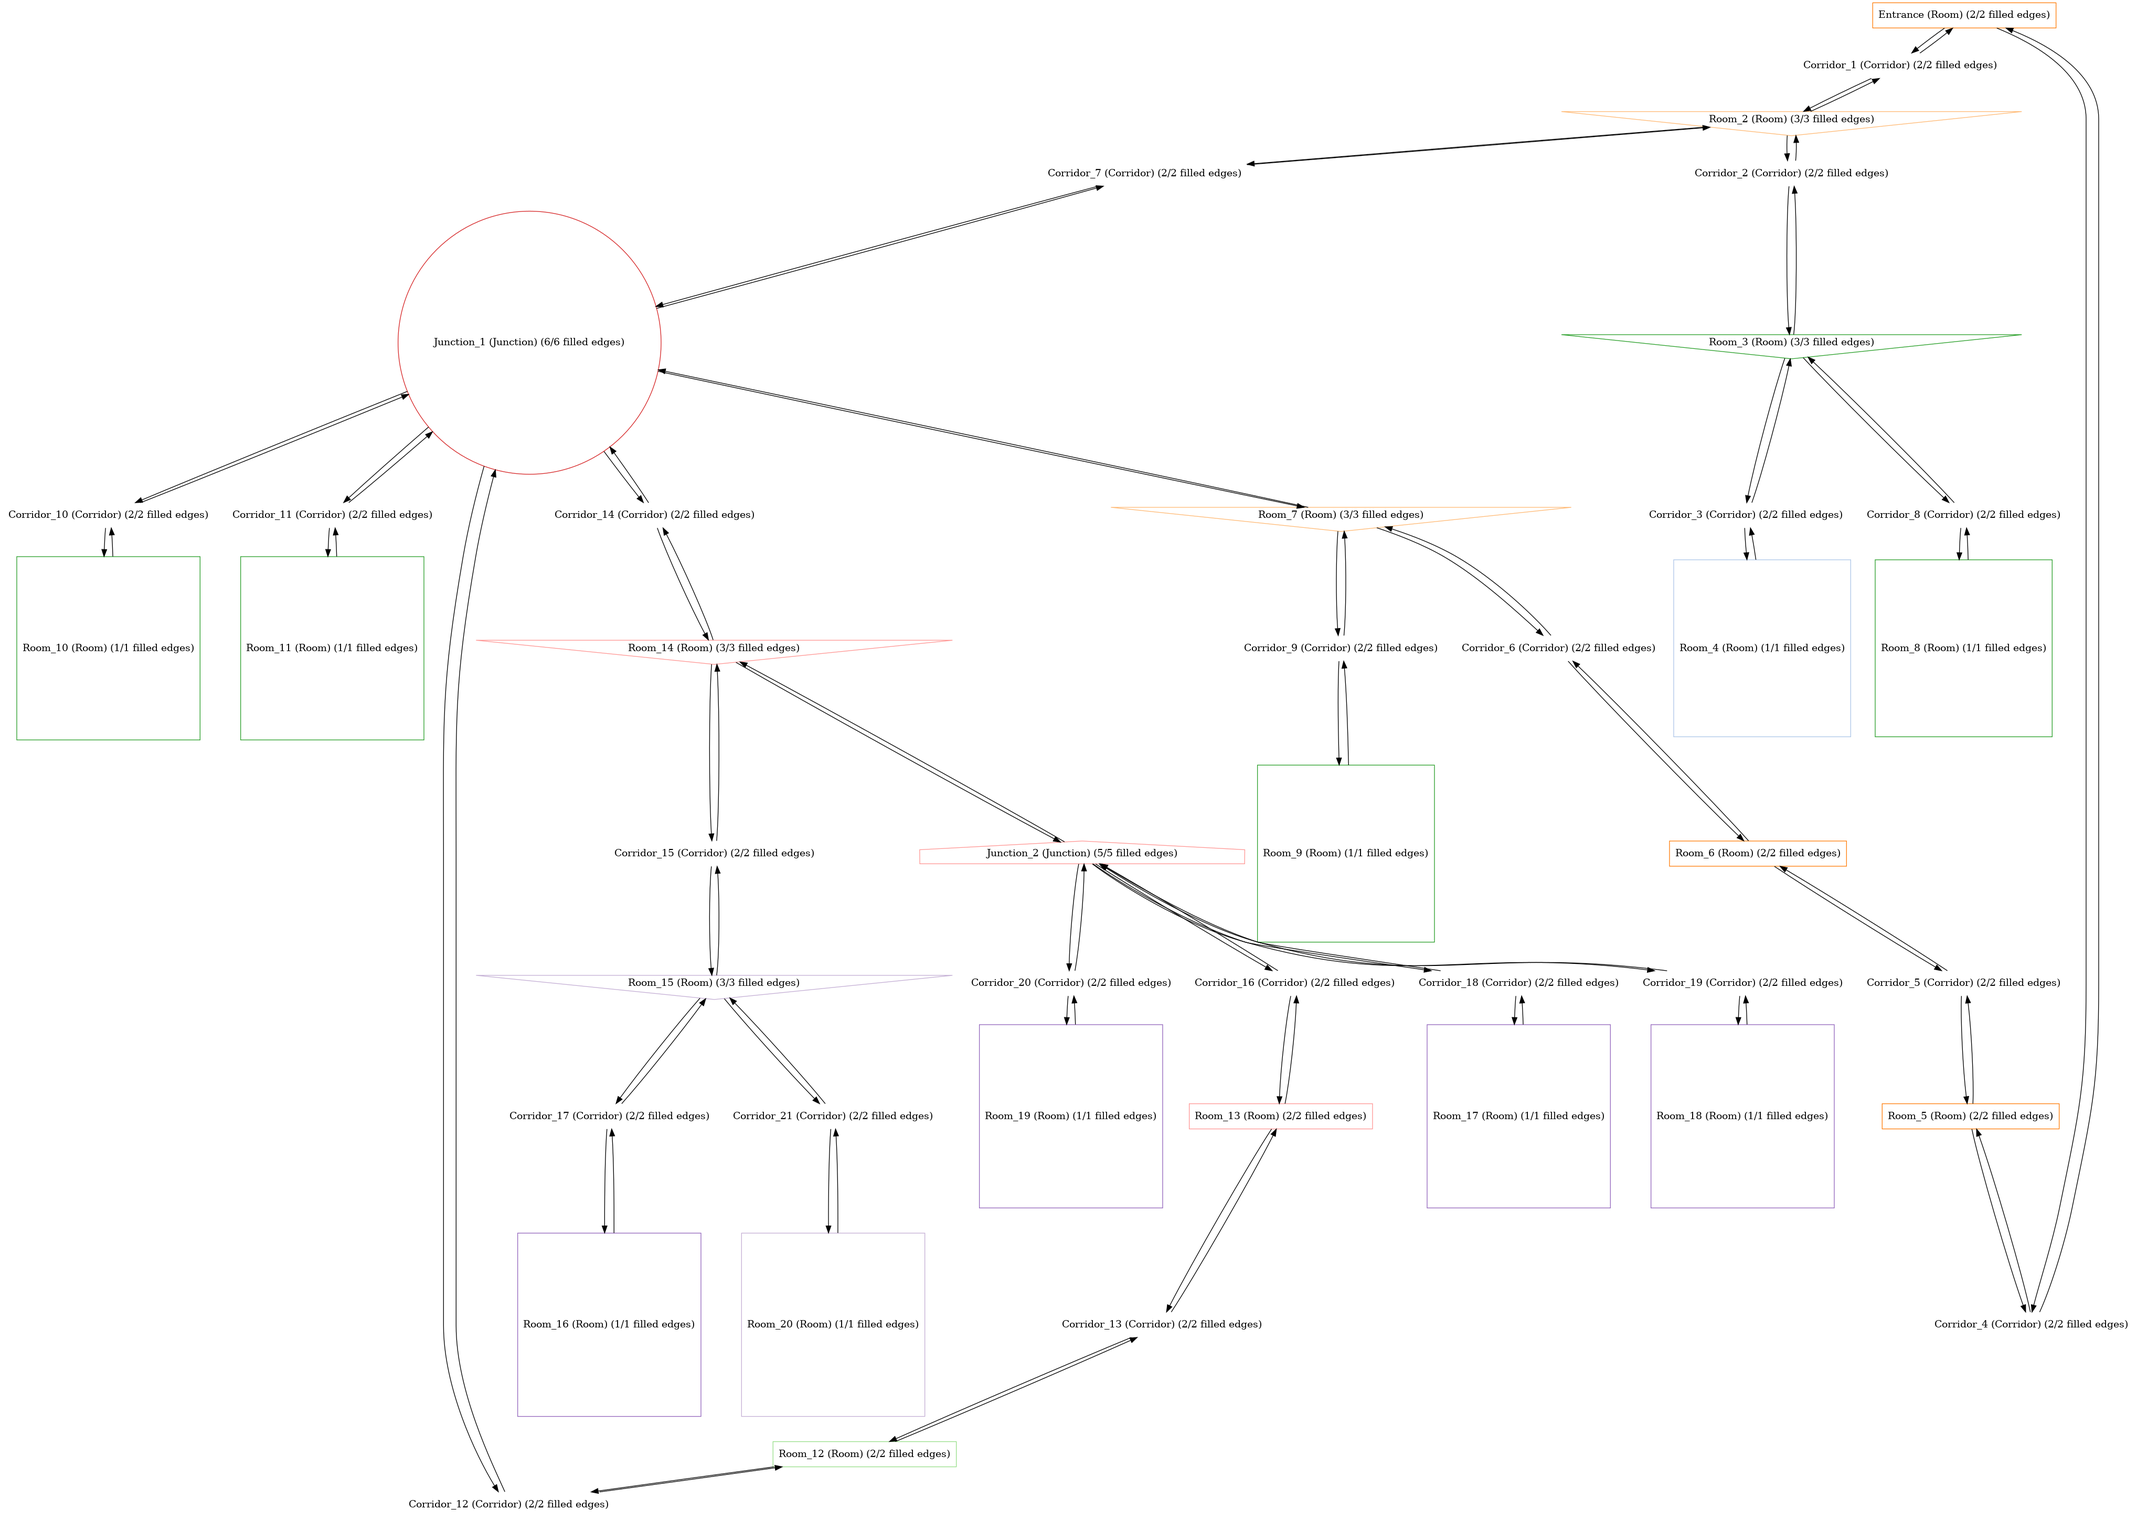
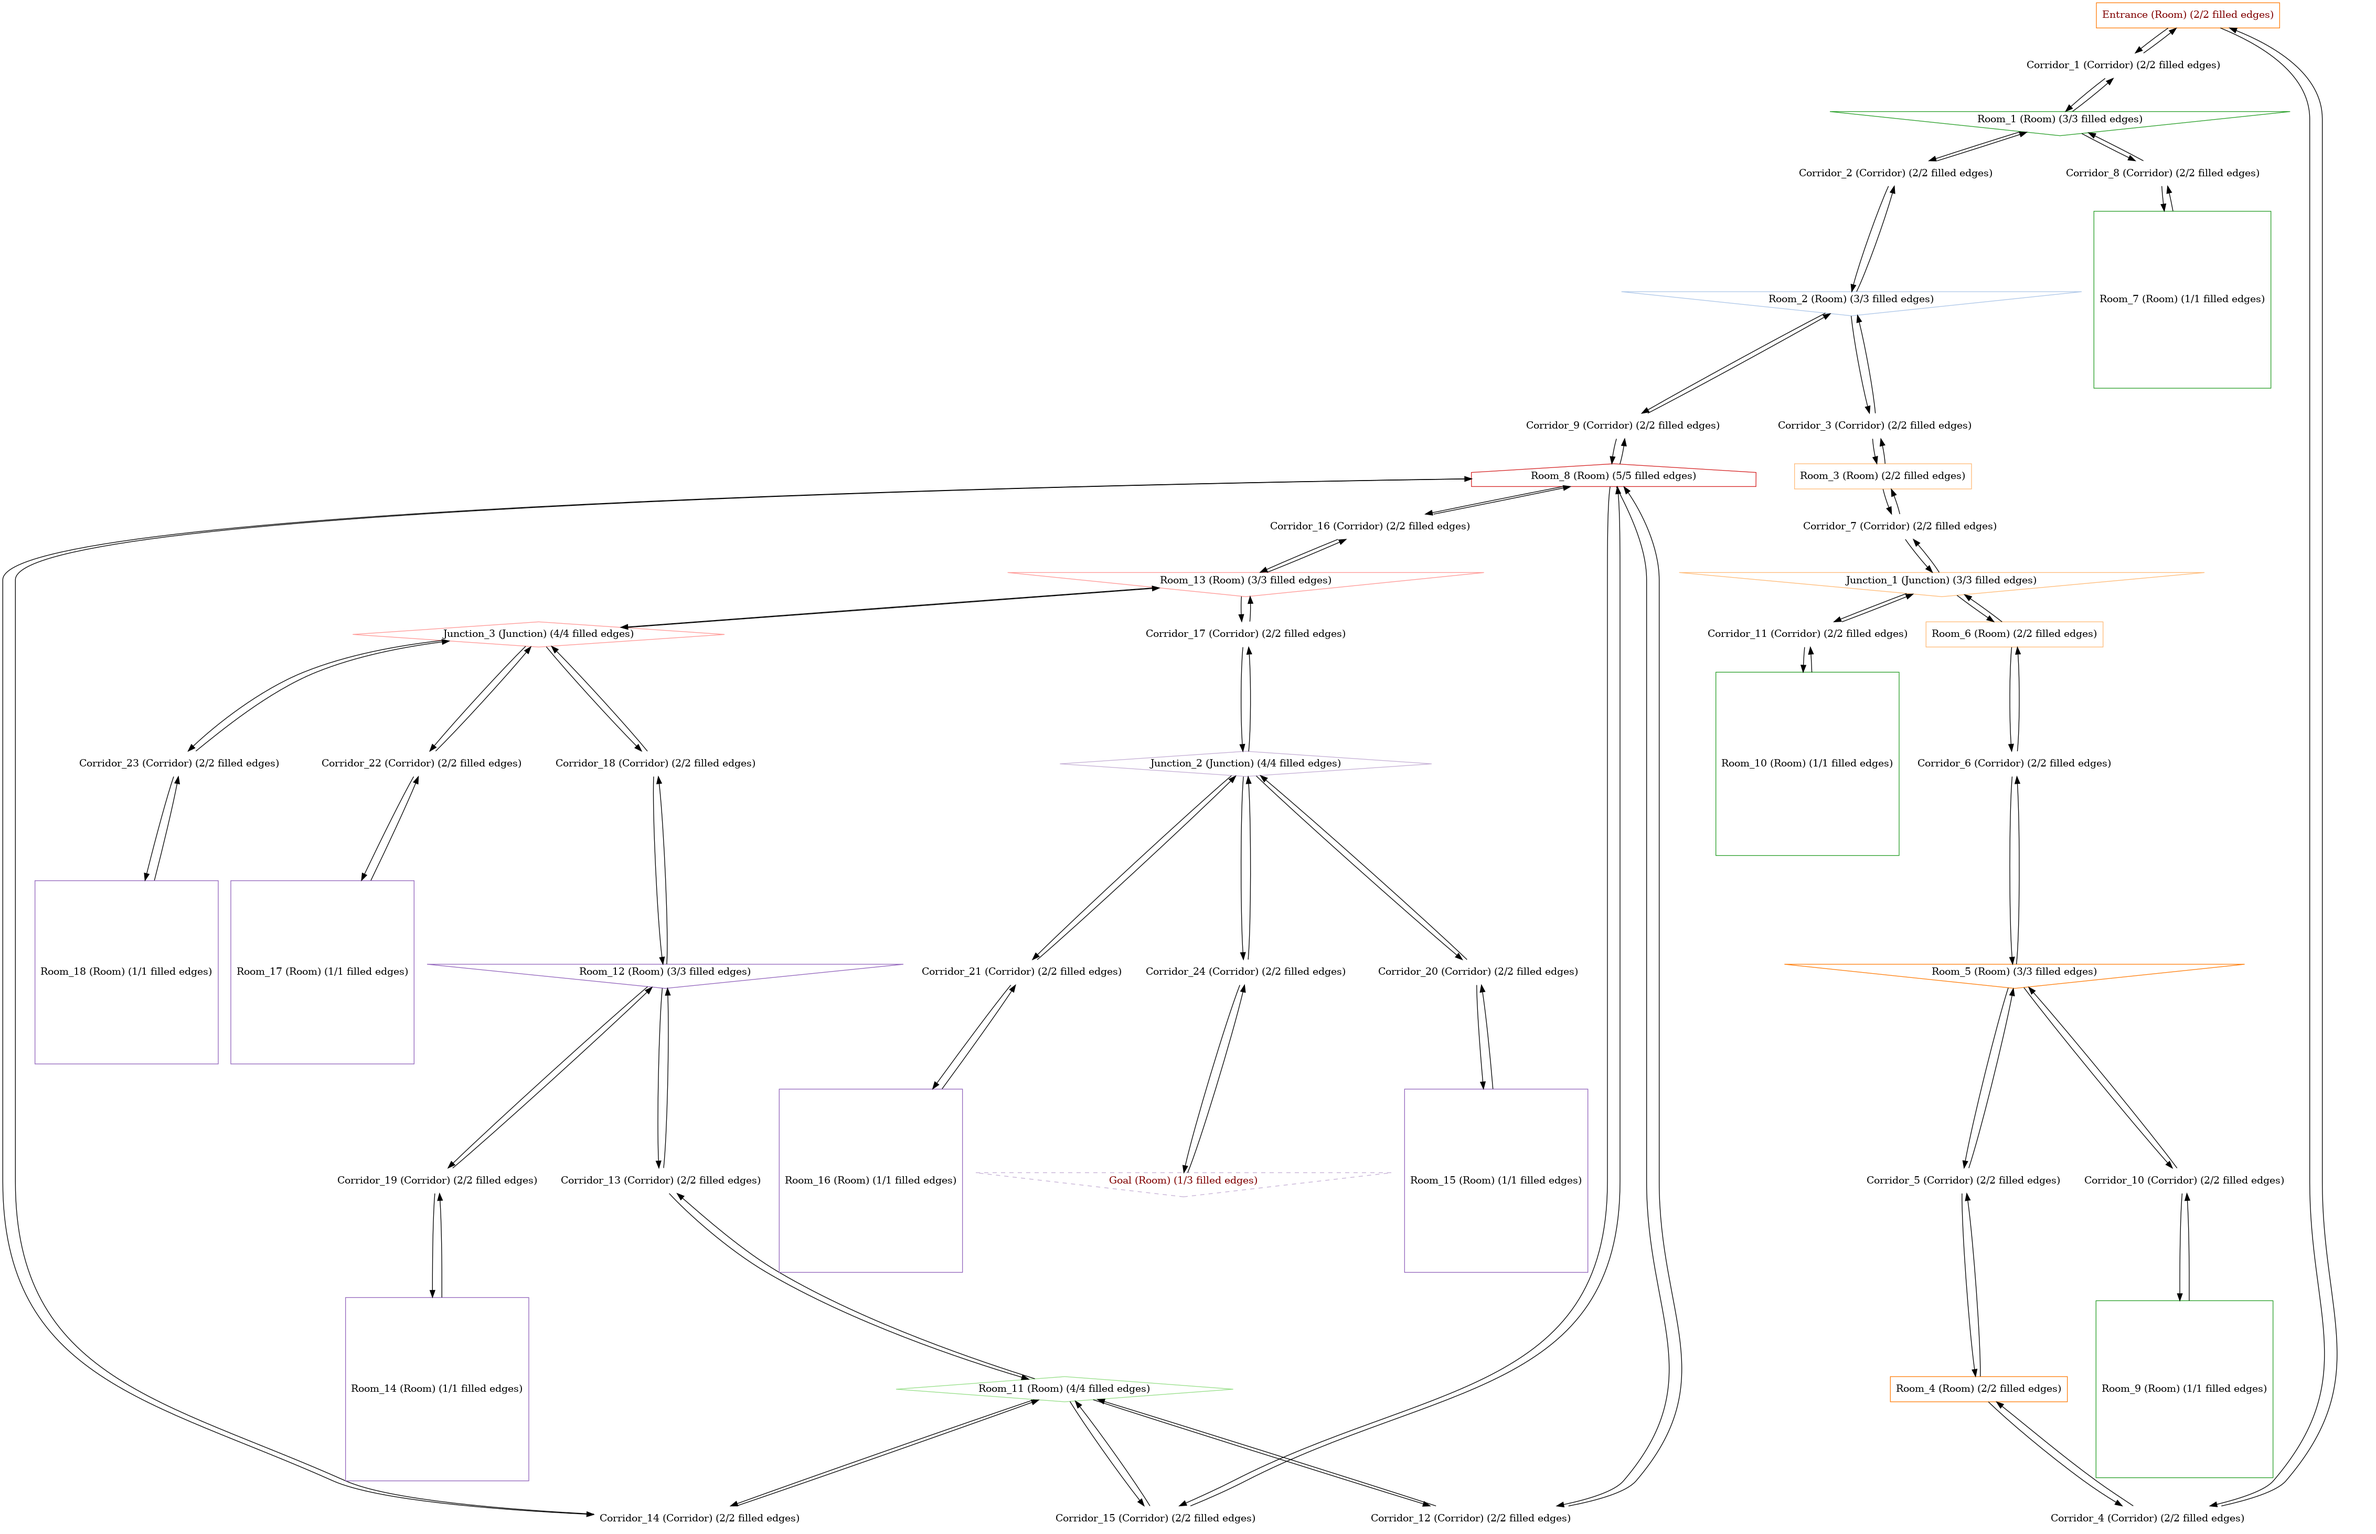
added self-loops

diff --git a/src/dungeon_net/generation/chain.py b/src/dungeon_net/generation/chain.py
@@ -41,10 +41,37 @@ def generate_node(node_types: List[Node], prev_node: Node,
     return node
 
 
+def link_rooms(chain: nx.MultiDiGraph, room1: Room, room2: Room,
+               previous_nodes: List[Node], chain_num: int) -> Tuple[nx.MultiDiGraph, List[Node]]:
+    # Link two rooms with a new corridor; generally used after generation
+    # for creating loops or reaching out to inaccessible Rooms
+    corridor = Corridor()
+    corridor.name = new_node_name(corridor, previous_nodes)
+    chain.add_node(corridor, chain_num=chain_num)
+    # Room1 <-> Corridor
+    chain.add_edge(room1, corridor)
+    chain.add_edge(corridor, room1)
+    # Corridor <-> Room2
+    chain.add_edge(corridor, room2)
+    chain.add_edge(room2, corridor)
+
+    previous_nodes.append(corridor)
+
+    corridor.filled_edges += 2
+
+    room1.num_edges += 1
+    room1.filled_edges += 1
+
+    room2.num_edges += 1
+    room2.filled_edges += 1
+
+    return chain, previous_nodes
+
+
 def generate_node_chain(chain_length: int, node_types: List[Node],
                         prob_matrix: np.ndarray, start_node: Node,
                         previous_nodes: List[Node], chain_num: int,
-                        debug=False) -> Tuple[nx.MultiDiGraph, List]:
+                        debug=False, loop_probs=np.array([0.75, 0.15, 0.1])) -> Tuple[nx.MultiDiGraph, List]:
     # "chain_length" is how many nodes _not_ including Corridor nodes
     # "node_types" is a list of node types to consider and is the ordering
     # of the "prob_matrix"
@@ -82,6 +109,24 @@ def generate_node_chain(chain_length: int, node_types: List[Node],
 
         prev_node = node
         previous_nodes.append(prev_node)
+
+    # Add interesting self-loops (RoomX -> RoomY * N)
+    # Because this is a linear chain, we can just grab all the "Rooms"
+    rooms = [n for n in G.nodes if isinstance(n, Room)]
+    if debug:
+        print([r.name for r in rooms])
+    for i, room in enumerate(rooms):
+        if i == len(rooms) - 1:
+            break
+        next_room = rooms[i+1]
+        # Randomly generate how many extra paths there should be
+        num_extra_paths = np.random.choice([0, 1, 2], p=loop_probs)
+        for i in range(num_extra_paths):
+            if debug:
+                print(
+                    f"Adding extra path {i+1}/{num_extra_paths} between {room.name} and {next_room}")
+            G, previous_nodes = link_rooms(G, room, next_room, previous_nodes,
+                                           chain_num)
 
     return G, previous_nodes
 
@@ -121,8 +166,6 @@ def generate_chain_join(chain_1: nx.MultiDiGraph,
     if not end_node.has_free_edges():
         end_node.num_edges += 1
 
-    if debug:
-        print(f"\nJoining Chain ({chain_length} nodes)")
     # Generate a chain with the desired probability matrix starting on
     # start_node
     G, previous_nodes = generate_node_chain(chain_length, node_types,

diff --git a/src/dungeon_net/generation/dungeon.py b/src/dungeon_net/generation/dungeon.py
@@ -57,7 +57,11 @@ def generate_chain_dungeon(num_iter: int, chain_lengths: Union[Tuple, Dict],
             start_node = np.random.choice(potential_start_nodes)
             if start_node.num_edges - start_node.filled_edges < 2:
                 start_node.num_edges += 2
+        if debug:
+            print(f"\nIter {i+1}/{num_iter}: Starting from {start_node}")
         # 1.: Chain 1 from start_node
+        if debug:
+            print(f"\nIter {i+1}/{num_iter}: Chain 1")
         chain_1, previous_nodes = generate_node_chain(chain_length,
                                                       chain_node_types,
                                                       chain_prob_matrix,
@@ -65,10 +69,11 @@ def generate_chain_dungeon(num_iter: int, chain_lengths: Union[Tuple, Dict],
                                                       previous_nodes,
                                                       chain_num,
                                                       debug=debug)
-        # dungeon = chain_1
         chain_num += 1
         chain_dict[f"{i}_C"] = chain_1
         # 2.: Chain 2 from start_node
+        if debug:
+            print(f"\nIter {i+1}/{num_iter}: Chain 2")
         chain_2, previous_nodes = generate_node_chain(chain_length,
                                                       chain_node_types,
                                                       chain_prob_matrix,
@@ -79,6 +84,8 @@ def generate_chain_dungeon(num_iter: int, chain_lengths: Union[Tuple, Dict],
         chain_num += 1
         chain_dict[f"{i}_C2"] = chain_2
         # 3.: Join chains 1 & 2 (randomly picks start and end points)
+        if debug:
+            print(f"\nIter {i+1}/{num_iter}: Joining Chain")
         joining_chain, previous_nodes = generate_chain_join(chain_1, chain_2,
                                                             join_length,
                                                             join_node_types,
@@ -170,11 +177,6 @@ def fill_dungeon(dungeon: nx.MultiDiGraph,
                     add_edge_to_chain(dungeon, node, new_node, chain_num)
                 previous_nodes.append(new_node)
                 continue
-            # if np.random.random() < fill_self_loop_prob:
-            # TODO: Figure out how to do this organically, maybe I just have to
-            # do it in "generate_node_chain"
-            #     chain, previous_nodes = generate_chain_join()
-            # else:
             chain_length = int(np.random.randint(1,
                                                  max_chain_length + 1) * fill_complexity)
             if chain_length < 1:

diff --git a/scripts/dungeon_gen.py b/scripts/dungeon_gen.py
@@ -60,12 +60,11 @@ def count_node_types(chain_dict: Dict[str, nx.MultiDiGraph]) -> Dict[Node, int]:
 
 
 def main():
-    SEED = 69
+    SEED = 420
     np.random.seed(SEED)
     entrance = Room(2)  # min of 2
     entrance.name = "Entrance"
     node_types = [Room, Corridor, Junction]
-    previous_nodes = [entrance]
     # set up the probability matrix for generation
     chain_prob_matrix = np.zeros((len(node_types), len(node_types)))
     # All values should be proportionate, here they are just straight up
@@ -95,7 +94,7 @@ def main():
         1: (3, 2),
         2: (3, 2),
     }
-    num_iter = 3
+    num_iter = 2
     dungeon, chain_dict = generate_chain_dungeon(num_iter, chain_lengths,
                                                  node_types, node_types,
                                                  chain_prob_matrix,
